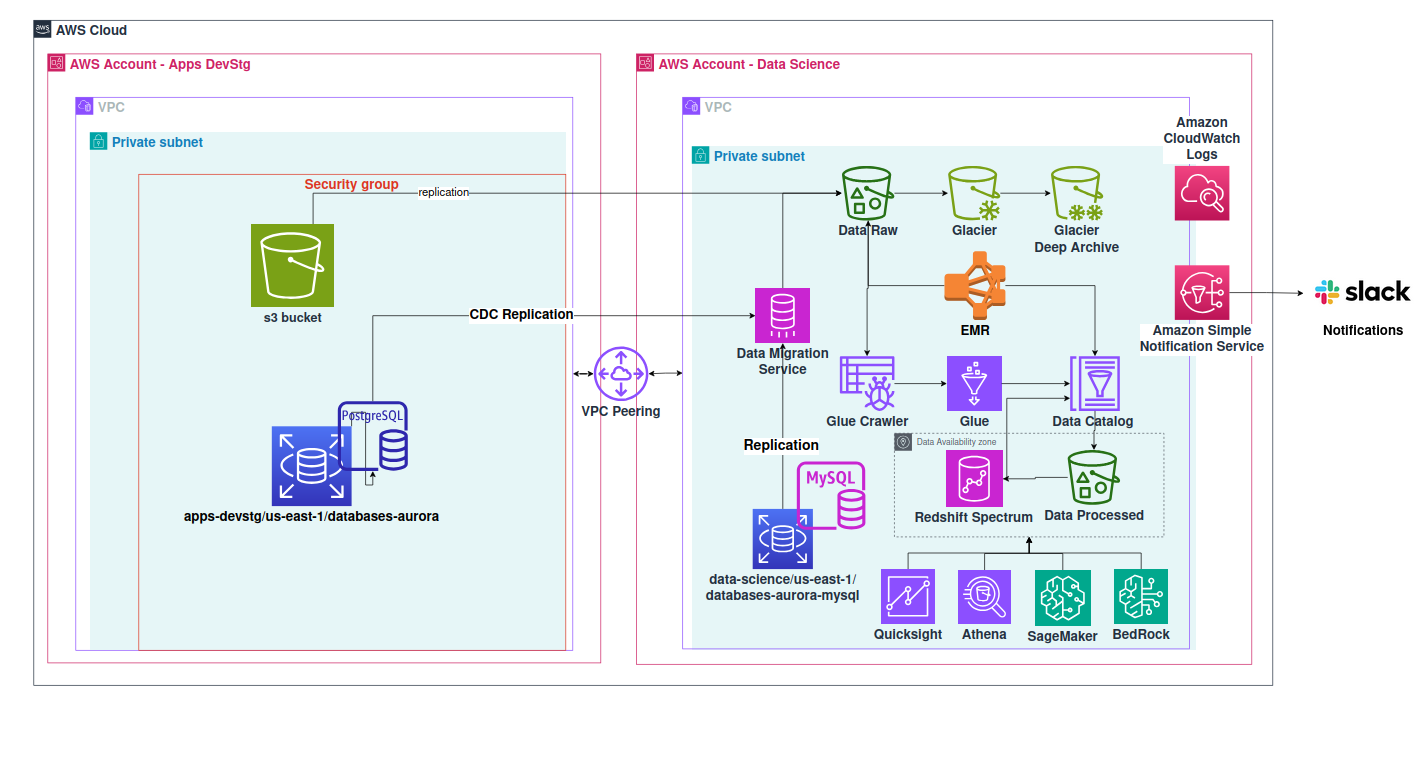
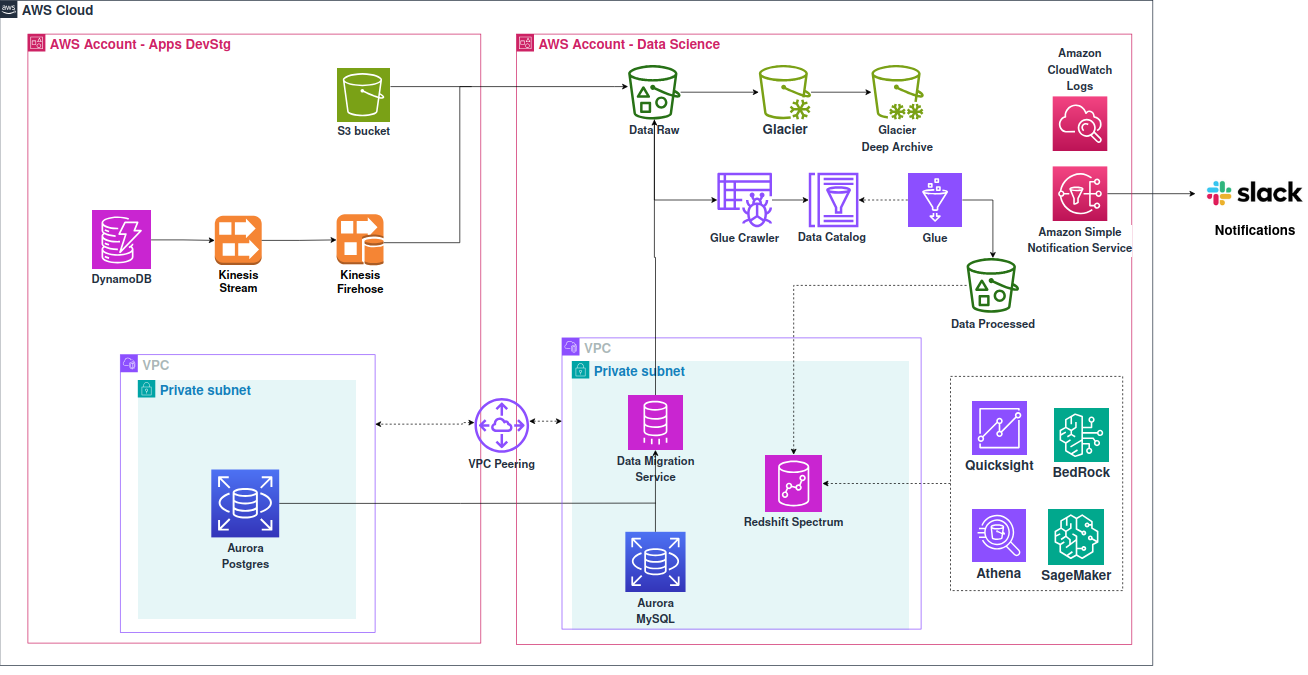
Improve lakehouse docs and update diagram

diff --git a/apps-devstg/us-east-1/datalake--/README.md b/apps-devstg/us-east-1/datalake--/README.md
@@ -4,6 +4,54 @@ This Terraform layer is used for creating resources that are required by the dat
 
 The resources defined here (such as Kinesis streams and Firehose delivery streams) are necessary for the datalake to function, but must be provisioned outside the datascience account itself. This layer is responsible for provisioning those supporting resources.
 
-## Data Science Account Path
+## Architecture Overview
 
-> `data-science/us-east-1/datalake-demo--/`
+This layer creates a **real-time data pipeline** that moves data from DynamoDB (in the apps-devstg account) to the data lake (in the data-science account) using:
+
+1. **Kinesis Data Stream**: Captures DynamoDB changes via CDC (Change Data Capture)
+2. **Kinesis Firehose**: Delivers the streamed data to the S3 raw bucket in the data-science account
+3. **DynamoDB Kinesis Streaming**: Enables DynamoDB to stream changes to Kinesis
+
+## Prerequisites
+
+Before applying this layer, ensure the following dependencies are met:
+
+### 1. DynamoDB Layer (Required First)
+The DynamoDB layer must be applied first as this layer depends on the DynamoDB table:
+```bash
+cd ../databases-dynamodb--
+leverage tf apply
+```
+
+### 2. Data Science Account - Datalake Layer
+The S3 raw bucket must be created in the data-science account:
+```bash
+# In data-science account
+cd data-science/us-east-1/datalake-demo--
+leverage tf apply
+```
+
+### 3. Data Science Account - Lakehouse Layer (Optional but Recommended)
+For complete data processing capabilities, also apply the lakehouse layer:
+```bash
+# In data-science account  
+cd data-science/us-east-1/lakehouse-demo--
+leverage tf apply
+```
+
+## Data Flow
+
+```
+DynamoDB (apps-devstg) 
+    ↓ [CDC via Kinesis Streaming]
+Kinesis Data Stream (apps-devstg)
+    ↓ [Firehose Delivery]
+S3 Raw Bucket (data-science/datalake-demo)
+    ↓ [Glue ETL Processing]
+S3 Processed Bucket (data-science/lakehouse-demo)
+```
+
+## Data Science Account Paths
+
+- **Datalake Layer**: `data-science/us-east-1/datalake-demo--/`
+- **Lakehouse Layer**: `data-science/us-east-1/lakehouse-demo--/`

diff --git a/data-science/us-east-1/lakehouse-demo--/README.md b/data-science/us-east-1/lakehouse-demo--/README.md
@@ -43,11 +43,14 @@ Once we run `leverage terraform apply`, the following components are **automatic
    - The **MySQL database** (data-science account) is populated with **sock products**.
    - The **PostgreSQL database** (apps-devstg account) is populated with **orders** (buys referencing the MySQL product table).
 
-2. **Data Movement & Processing**:
-   - **AWS DMS** reads from both databases and stores the data in **S3**.
+2. **Raw Data Storage (S3 Raw Bucket)**:
+   - **AWS DMS** reads from both databases and stores the raw data in the **S3 raw bucket**.
+   - **Amazon Kinesis** streams data from **DynamoDB tables** directly to the raw bucket for real-time data ingestion.
+
+3. **Data Movement & Processing**:
    - **ETL processes** transform and combine the data from both sources, creating a new layer that relates each **product** to the **sum of its orders**.
 
-3. **Data Querying**:
+4. **Data Querying**:
    - **Amazon Redshift** queries the data from the external schema **'awsdatacatalog'** (**'sales'** database), reading directly from **S3**.
 
 ## Notes
